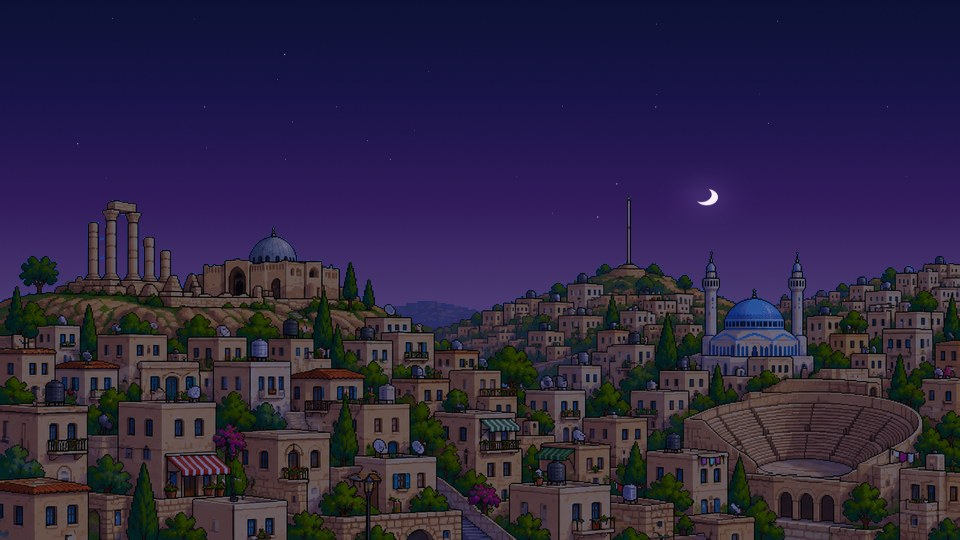
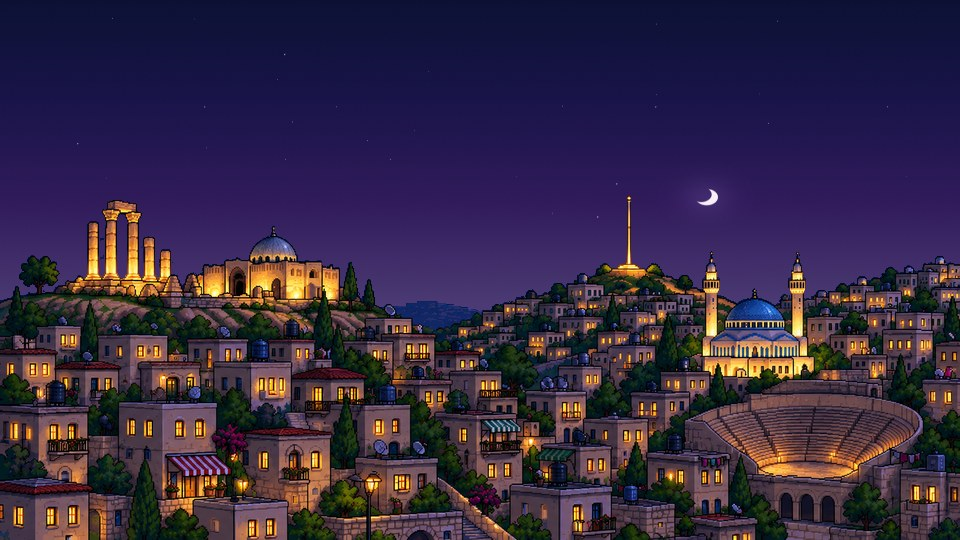
Amman: blend the night picture in at dusk so the windows and landmarks light up

Changed region(s): [[0.0, 0.3556, 1.0, 1.0]]

diff --git a/tools/build-amman.py b/tools/build-amman.py
@@ -2,7 +2,9 @@
 
 The picture has a flat blue sky, which is cut away (every pixel of the sky colour, also enclosed gaps) so the generated sky shows through,
 and a flag on its pole, which is erased: the flag is drawn and waved by the core (core/flag.js).
-Terrain layers are tinted for the lighting anchors exactly like the Sahara scenes (tools/build-sahara.py).
+Terrain layers are tinted for the lighting anchors exactly like the Sahara scenes (tools/build-sahara.py), and
+blended with the night picture (art-source/amman-night.png, the same view with the lights on) so the windows and
+the floodlit landmarks switch on at dusk and off at sunrise.
 """
 from pathlib import Path
 import importlib.util
@@ -19,6 +21,9 @@ spec.loader.exec_module(sahara)
 
 SIZE = sahara.SIZE
 SKY_TOLERANCE = 30        # summed RGB distance from the sky colour (the sky has a faint gradient, +-5)
+# How much of the night picture each lighting anchor shows (anchors: midnight, ..., noon, ..., sunset, dusk, night).
+NIGHT_WEIGHT = [1, 1, 0.85, 0.15, 0, 0, 0, 0.05, 0.6, 1, 1]
+LIT_SPEEDUP = 1.8         # lit windows come on (and go off) faster than the rest of the picture darkens
 FLAG_BOX = (1100, 336, 1180, 425)   # x0, y0, x1, y1 in source pixels: the baked-in flag, pole excluded
 
 def sky_mask(rgb):
@@ -27,7 +32,10 @@ def sky_mask(rgb):
     # Every sky-coloured pixel counts, also the enclosed gaps (between the columns of the Temple of Hercules).
     return close
 
-def main(source):
+def load(path, size):
+    return np.asarray(Image.open(path).convert('RGB').resize(size, Image.Resampling.LANCZOS)).copy()
+
+def main(source, night_source):
     folder = ROOT / 'assets' / 'themes' / 'amman'
     folder.mkdir(parents=True, exist_ok=True)
     rgb = np.asarray(Image.open(source).convert('RGB')).copy()
@@ -39,17 +47,34 @@ def main(source):
     filled = rgb[nearest[0], nearest[1]]
     filled[~sky] = rgb[~sky]
     small = np.asarray(Image.fromarray(filled).resize(SIZE, Image.Resampling.LANCZOS)).astype(float)
+    # The night picture is the same view (within a pixel), so the day picture's sky mask is reused; the colour under
+    # the sky is filled from the nearest terrain pixel as above.
+    night = load(night_source, (rgb.shape[1], rgb.shape[0]))
+    night = night[nearest[0], nearest[1]]
+    night[~sky] = load(night_source, (rgb.shape[1], rgb.shape[0]))[~sky]
+    night_small = np.asarray(Image.fromarray(night).resize(SIZE, Image.Resampling.LANCZOS)).astype(float)
+    luma = lambda a: a @ np.array([0.299, 0.587, 0.114])
+
+    def lit_terrain(tint, weight):
+        day = small * tint
+        if weight <= 0:
+            return day
+        lit = luma(night_small) > 1.3 * luma(day) + 20
+        w = np.where(lit, min(1, weight * LIT_SPEEDUP), weight)[..., None]
+        return day * (1 - w) + night_small * w
     alpha = np.asarray(Image.fromarray(((~sky) * 255).astype(np.uint8)).resize(SIZE, Image.Resampling.BOX)) > 140
     sahara.SKY_SCALES['amman'] = SKY_SCALE
     for slot, (frame, tint) in enumerate(zip(sahara.ANCHORS, sahara.TINTS)):
-        image = sahara.rgba(small, alpha, tint)
+        image = sahara.rgba(lit_terrain(tint, NIGHT_WEIGHT[slot]), alpha, 1)
         image.quantize(colors=256, method=Image.Quantize.FASTOCTREE, dither=Image.Dither.NONE).save(
             folder / f'ground-{slot:02}.png', optimize=True)
     for slot in range(0, 33, 2):
         frame = round(slot * 1999 / 32)
         still = Image.new('RGB', SIZE)
         still.paste(sahara.sky(frame, 'amman'), (0, 0))
-        terrain = sahara.rgba(small, alpha, sahara.palette(frame))
+        slot_position = np.interp(frame, sahara.ANCHORS, range(len(sahara.ANCHORS)))
+        weight = float(np.interp(slot_position, range(len(NIGHT_WEIGHT)), NIGHT_WEIGHT))
+        terrain = sahara.rgba(lit_terrain(sahara.palette(frame), weight), alpha, 1)
         still.paste(terrain, mask=terrain.getchannel('A'))
         still.save(folder / f'still-{slot:02}.jpg', quality=88, optimize=True)
     layout_path = ROOT / 'assets' / 'themes' / 'layout.json'
@@ -60,4 +85,4 @@ def main(source):
 SKY_SCALE = 0.72
 
 if __name__ == '__main__':
-    main(sys.argv[1] if len(sys.argv) > 1 else ROOT / 'art-source' / 'amman.png')
+    main(ROOT / 'art-source' / 'amman.png', ROOT / 'art-source' / 'amman-night.png')

diff --git a/README.md b/README.md
@@ -84,7 +84,7 @@ offset. Polar day and night have special lighting sequences. Sun and moon paths 
 The Android build is Gradle-free (`aapt2` -> `javac` -> `d8` -> `zipalign` -> `apksigner`) and signs with a
 local, git-ignored `android/debug.keystore` created on first use.
 
-**Regenerating art.** `tools/build-amman.py` rebuilds the Amman layers from `art-source/amman.png` (its sky is cut away and its flag erased; the
+**Regenerating art.** `tools/build-amman.py` rebuilds the Amman layers from `art-source/amman.png` and `amman-night.png` (the sky is cut away, the flag erased and the night picture blended in at dusk so the windows light up; the
 flag is drawn by `core/flag.js`). `tools/build-sahara.py art-source/dunes.png art-source/plateau.png art-source/oasis.png`
 rebuilds the Sahara terrain layers and lit stills (needs Python with numpy, scipy, Pillow, and Node for the sky).
 `tools/render-frame.mjs FRAME` dumps one raw sky frame; `gjs -m tools/render-scene.js THEME FRAME ELAPSED out.png`
